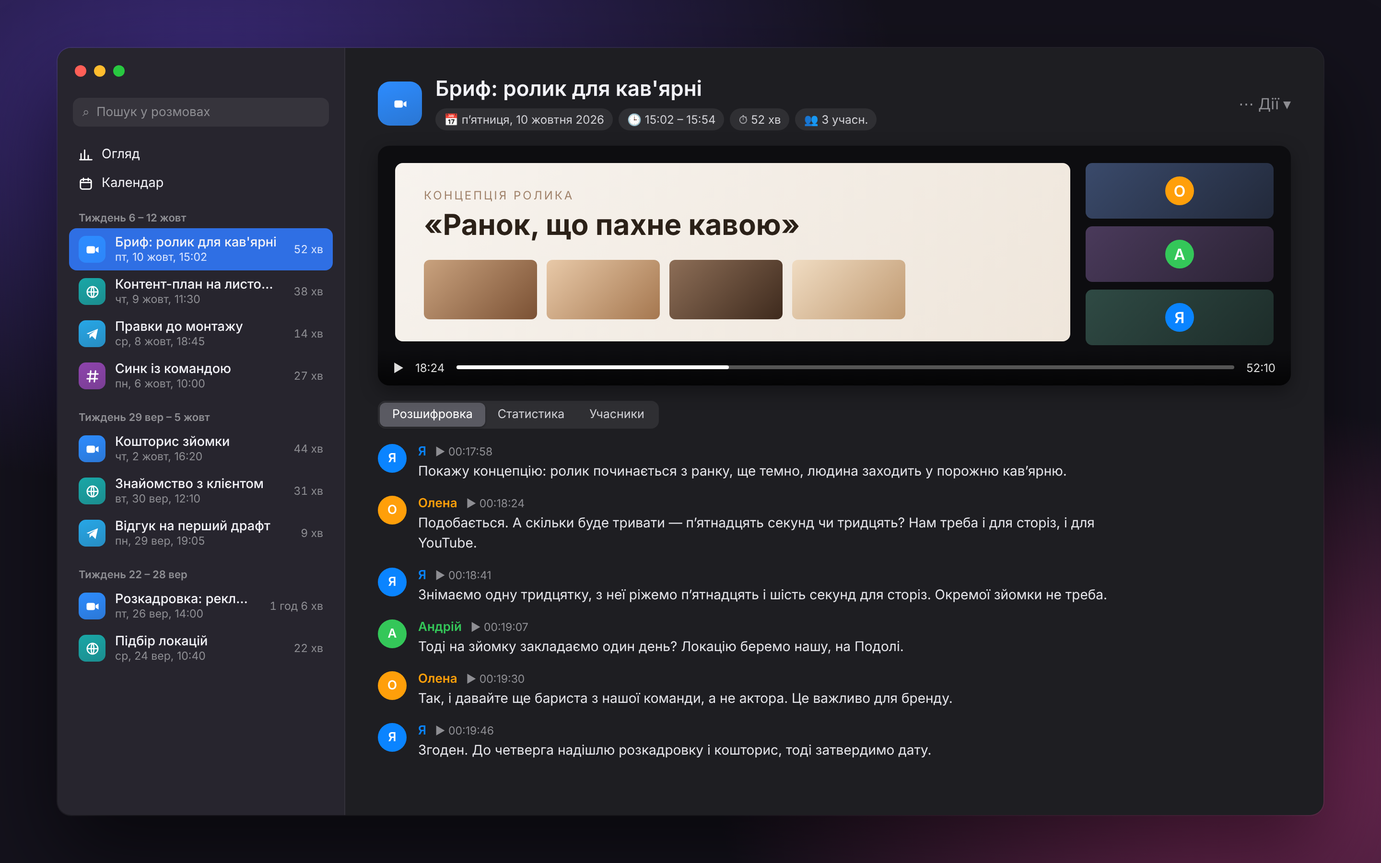
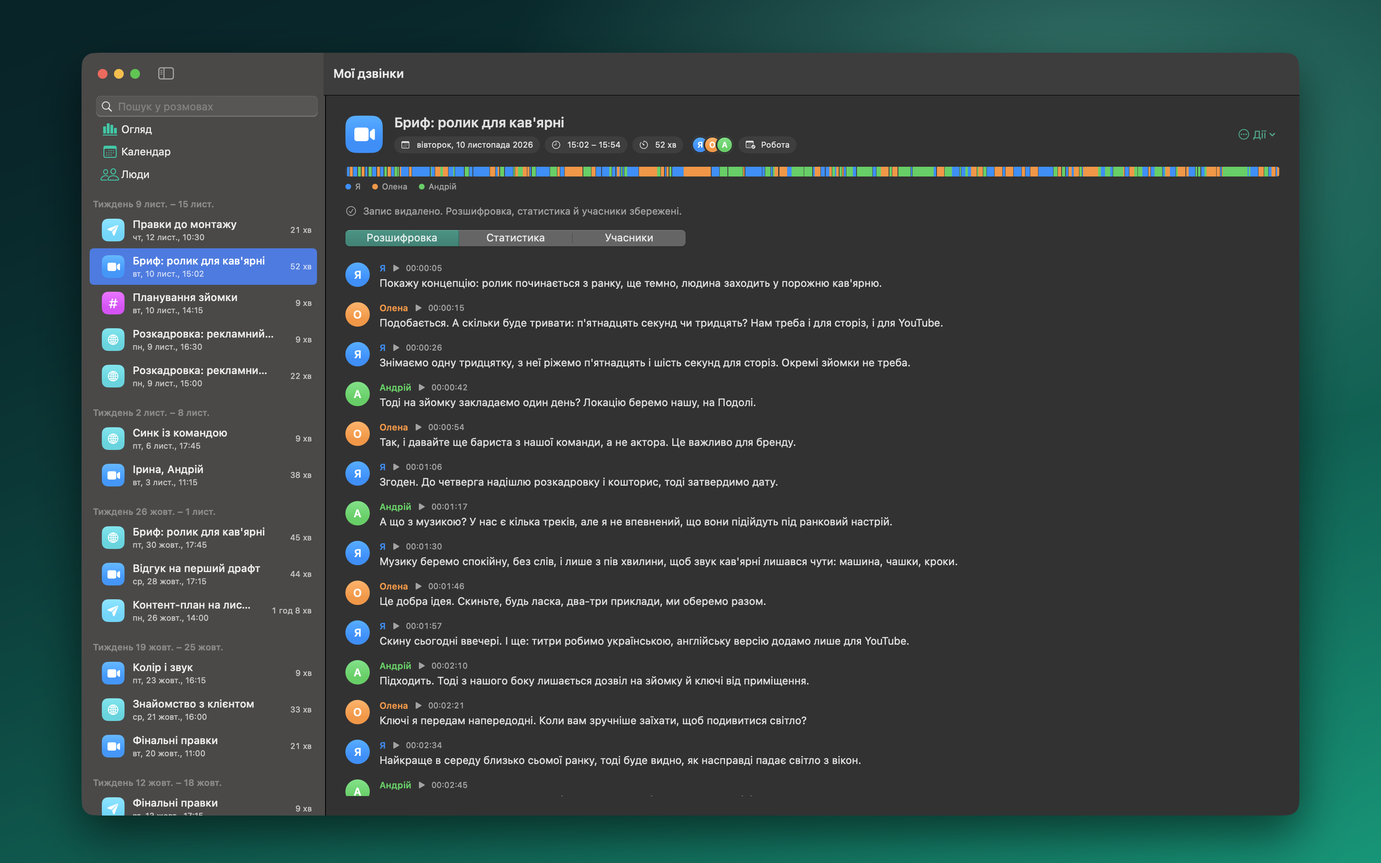
Rozmova 0.12.0: site, README, release notes, demo data folder
New screenshots from invented calls (ROZMOVA_HOME), teal palette and icon on the
site, text for the new voices, People page and delete-the-recording behaviour.
People page shows three voice samples with a Show all button.

diff --git a/docs/index.html b/docs/index.html
@@ -8,22 +8,22 @@
 <meta property="og:title" content="Rozmova — запис і розшифровка дзвінків на Маці">
 <meta property="og:description" content="Zoom, Meet, Telegram, Slack — будь-яка програма. Розшифровка на твоєму Маці, без підписки. Відкритий код.">
 <meta property="og:image" content="https://slavashootit.github.io/rozmova/img/overview.webp">
-<meta name="theme-color" content="#0d0b16">
+<meta name="theme-color" content="#0a1214">
 <link rel="icon" href="icon.png">
 <style>
   :root {
-    --bg: #f7f6fb; --surface: #ffffff; --text: #16141f; --muted: #605b75; --line: #e6e3ef;
-    --accent: #7c5cff; --accent2: #e0458f; --key: #f0eef7; --code: #15131f; --codetext: #ebe8f5;
+    --bg: #f4f8f7; --surface: #ffffff; --text: #12201f; --muted: #52676a; --line: #dce8e6;
+    --accent: #14a37d; --accent2: #0b7a86; --key: #e9f2f0; --code: #0e1a1c; --codetext: #e4f0ee;
   }
   @media (prefers-color-scheme: dark) {
     :root:not([data-theme="light"]) {
-      --bg: #0d0b16; --surface: #16141f; --text: #eeecf7; --muted: #9e98b6; --line: #272439;
-      --key: #1f1c2e; --code: #0b0a12; --codetext: #ebe8f5;
+      --bg: #0a1214; --surface: #111c1f; --text: #e8f1f0; --muted: #91a8a8; --line: #1f3033;
+      --key: #172529; --code: #081012; --codetext: #e4f0ee;
     }
   }
   :root[data-theme="dark"] {
-    --bg: #0d0b16; --surface: #16141f; --text: #eeecf7; --muted: #9e98b6; --line: #272439;
-    --key: #1f1c2e; --code: #0b0a12; --codetext: #ebe8f5;
+    --bg: #0a1214; --surface: #111c1f; --text: #e8f1f0; --muted: #91a8a8; --line: #1f3033;
+    --key: #172529; --code: #081012; --codetext: #e4f0ee;
   }
   * { box-sizing: border-box; }
   html { scroll-behavior: smooth; }
@@ -50,18 +50,18 @@
   .cta { display: flex; gap: 12px; justify-content: center; flex-wrap: wrap; }
   .btn { display: inline-flex; align-items: center; gap: 8px; padding: 13px 22px; border-radius: 12px; font-weight: 600; font-size: 16px; border: 1px solid var(--line); background: var(--surface); color: var(--text); }
   .btn:hover { text-decoration: none; border-color: var(--accent); }
-  .btn.primary { background: linear-gradient(135deg, var(--accent), var(--accent2)); color: #fff; border: none; box-shadow: 0 8px 26px rgba(124, 92, 255, .35); }
+  .btn.primary { background: linear-gradient(135deg, var(--accent), var(--accent2)); color: #fff; border: none; box-shadow: 0 8px 26px rgba(20, 163, 125, .35); }
   .note { color: var(--muted); font-size: 14px; margin-top: 14px; }
 
   .install { margin: 34px auto 0; max-width: 760px; text-align: left; }
   .code { display: flex; align-items: center; gap: 12px; background: var(--code); color: var(--codetext); border-radius: 12px; padding: 10px 10px 10px 18px; font: 14px/1.5 ui-monospace, "SF Mono", Menlo, monospace; }
   .code span { flex: 1; min-width: 0; overflow-x: auto; white-space: nowrap; padding: 6px 0; scrollbar-width: none; }
-  .code button { flex: none; border: 1px solid #3a3552; background: #211e33; color: #d3cfe6; border-radius: 8px; padding: 6px 12px; font: 13px -apple-system, system-ui, sans-serif; cursor: pointer; }
-  .code button:hover { background: #2b2742; }
+  .code button { flex: none; border: 1px solid #2e4549; background: #17292d; color: #cfe3e0; border-radius: 8px; padding: 6px 12px; font: 13px -apple-system, system-ui, sans-serif; cursor: pointer; }
+  .code button:hover { background: #20383d; }
   .cap { color: var(--muted); font-size: 13px; margin: 0 0 8px 2px; }
 
   /* ---------- hero illustration: a call and the "record?" prompt, drawn in CSS ---------- */
-  .stage { position: relative; aspect-ratio: 16 / 10; margin: 54px auto 0; max-width: 900px; border-radius: 18px; overflow: hidden; border: 1px solid var(--line); box-shadow: 0 30px 80px rgba(30, 16, 60, .35); background: radial-gradient(120% 90% at 0% 0%, #3b2685 0%, transparent 55%), radial-gradient(90% 80% at 100% 100%, #8a2a6b 0%, transparent 60%), #14111f; color: #fff; text-align: left; font-size: clamp(8px, 1.15vw, 12px); }
+  .stage { position: relative; aspect-ratio: 16 / 10; margin: 54px auto 0; max-width: 900px; border-radius: 18px; overflow: hidden; border: 1px solid var(--line); box-shadow: 0 30px 80px rgba(6, 30, 34, .4); background: radial-gradient(120% 90% at 0% 0%, #0f5a5c 0%, transparent 55%), radial-gradient(90% 80% at 100% 100%, #1b8f70 0%, transparent 60%), #0a1618; color: #fff; text-align: left; font-size: clamp(8px, 1.15vw, 12px); }
   .menubar { position: absolute; inset: 0 0 auto 0; height: 4.4%; min-height: 16px; background: rgba(10, 8, 20, .55); backdrop-filter: blur(8px); display: flex; align-items: center; gap: 14px; padding: 0 14px; }
   .menubar .sp { margin-left: auto; }
   .menubar .wave { display: inline-flex; align-items: center; gap: 2px; height: 1.2em; }
@@ -106,7 +106,7 @@
   .tabs button { font: 600 14px -apple-system, system-ui, sans-serif; padding: 9px 16px; border-radius: 99px; border: 1px solid var(--line); background: var(--surface); color: var(--muted); cursor: pointer; }
   .tabs button[aria-selected="true"] { color: #fff; border-color: transparent; background: linear-gradient(135deg, var(--accent), var(--accent2)); }
   .panel[hidden] { display: none; }
-  .panel img { display: block; width: 100%; height: auto; border-radius: 16px; border: 1px solid var(--line); box-shadow: 0 30px 80px rgba(30, 16, 60, .30); background: #14111f; }
+  .panel img { display: block; width: 100%; height: auto; border-radius: 16px; border: 1px solid var(--line); box-shadow: 0 30px 80px rgba(6, 30, 34, .34); background: #0c1719; }
   .caption { color: var(--muted); font-size: 15px; margin: 14px 0 0; max-width: 720px; }
   .fine { color: var(--muted); font-size: 12px; margin-top: 18px; opacity: .8; }
 
@@ -125,7 +125,7 @@
 
   .files { display: grid; grid-template-columns: repeat(auto-fit, minmax(320px, 1fr)); gap: 14px; }
   .term { background: var(--code); color: var(--codetext); border-radius: 14px; padding: 18px 20px; font: 13.5px/1.7 ui-monospace, "SF Mono", Menlo, monospace; overflow-x: auto; white-space: pre; }
-  .term .c { color: #8c86a6; }
+  .term .c { color: #82a09f; }
   .term .t { color: #9db4ff; }
   .term .y { color: #4ea2ff; } .term .o { color: #ffb340; } .term .g { color: #5be07f; }
   .files h3 { margin: 0 0 10px; font-size: 17px; }
@@ -170,7 +170,7 @@
 
 <header class="hero" id="top">
   <div class="wrap">
-    <span class="pill">Безкоштовно · відкритий код · macOS 14+ · v0.11.0</span>
+    <span class="pill">Безкоштовно · відкритий код · macOS 14+ · v0.12.0</span>
     <h1>Записує дзвінки <em>без бота й підписки</em></h1>
     <p class="lead">Rozmova сама помічає дзвінок у будь-якій програмі: Zoom, Google Meet у браузері, Telegram, Slack, FaceTime. Пише твій голос і співрозмовників, за бажанням екран, а потім розшифровує розмову прямо на твоєму Маці. Нічого не йде в хмару.</p>
     <div class="cta">
@@ -187,7 +187,7 @@
     <div class="stage" role="img" aria-label="Ілюстрація: іде відеодзвінок, а Rozmova у правому верхньому куті питає, чи записати його">
       <div class="menubar">
         <span style="font-size:1.3em"></span><b>Відеодзвінок</b><span class="m">Зустріч</span><span class="m">Вигляд</span><span class="m">Вікно</span>
-        <span class="sp wave" aria-hidden="true"><i style="height:35%"></i><i style="height:70%"></i><i style="height:100%"></i><i style="height:60%"></i><i style="height:30%"></i></span>
+        <span class="sp" aria-hidden="true" style="display:inline-flex"><svg viewBox="0 0 24 24" width="17" height="17"><mask id="mb"><rect width="24" height="24" fill="#fff"/><path d="M13 9h5a4 4 0 0 1 4 4v1a4 4 0 0 1-4 4h-.5l-3 3v-3H13a4 4 0 0 1-4-4v-1a4 4 0 0 1 4-4z" fill="#000" stroke="#000" stroke-width="2.6" stroke-linejoin="round"/></mask><path mask="url(#mb)" d="M7 3h4a4 4 0 0 1 4 4v2a4 4 0 0 1-4 4h-1l-3 3v-3a4 4 0 0 1-4-4V7a4 4 0 0 1 4-4z" fill="none" stroke="#fff" stroke-width="1.7" stroke-linejoin="round"/><path d="M13 9h5a4 4 0 0 1 4 4v1a4 4 0 0 1-4 4h-.5l-3 3v-3H13a4 4 0 0 1-4-4v-1a4 4 0 0 1 4-4z" fill="#fff"/></svg></span>
         <span>Нд 11 жовт. 15:02</span>
       </div>
       <div class="call">
@@ -219,12 +219,13 @@
       <div class="card"><div class="ic">🔔</div><h3>Сама помічає дзвінок</h3><p>Щойно програма бере мікрофон для розмови, справа зверху виїжджає віконце «Записати?». Фокус у дзвінка не забирає. А ⌃⌥R починає чи зупиняє запис із будь-якої програми.</p></div>
       <div class="card"><div class="ic">🌐</div><h3>Будь-яка програма</h3><p>Zoom, Meet і Teams у браузері, Telegram, Slack, FaceTime, WhatsApp, Discord. Бот у дзвінок не заходить, ніхто нічого не помітить.</p></div>
       <div class="card"><div class="ic">🎧</div><h3>Обидві сторони окремо</h3><p>Твій мікрофон і звук системи пишуться на різні доріжки. У розшифровці точно видно, де говориш ти.</p></div>
-      <div class="card"><div class="ic">🗣</div><h3>Розрізняє голоси</h3><p>Інших учасників ділить за голосом: «Співрозмовник 1», «Співрозмовник 2». Назвеш людину раз — у наступних дзвінках Rozmova впізнає її голос сама.</p></div>
+      <div class="card"><div class="ic">🗣</div><h3>Впізнає людей за голосом</h3><p>Назвеш співрозмовника, і Rozmova запам'ятає його голос із кількох дзвінків. У наступному підпише сама, але лише коли певна. Якщо голос тільки схожий, запропонує ім'я, а незнайомого лишить без імені.</p></div>
+      <div class="card"><div class="ic">👥</div><h3>Сторінка «Люди»</h3><p>Видно, які записи навчили програму голосу кожної людини. Можна перейменувати, з'єднати двох в одну, прибрати помилковий запис і відкрити всі розмови з нею.</p></div>
       <div class="card"><div class="ic">🧠</div><h3>Розшифровка на Маці</h3><p>NVIDIA Parakeet на Neural Engine: 25 європейських мов, зокрема українська. Безкоштовно й без інтернету. Хочеш хмару — є Groq.</p></div>
       <div class="card"><div class="ic">🖥</div><h3>Запис екрана</h3><p>30 кадрів/с зі звуком розмови. Головний дисплей, інший монітор або лише вікно Zoom чи Meet — тоді демонстрацію співрозмовника видно завжди.</p></div>
-      <div class="card"><div class="ic">🗂</div><h3>«Мої дзвінки»</h3><p>Усі розмови в одному вікні: пошук по тексту всіх дзвінків відкриває потрібну репліку, плеєр вмикає запис із будь-якого місця.</p></div>
-      <div class="card"><div class="ic">📊</div><h3>Статистика без нейронок</h3><p>Хто скільки говорив, твій темп, запитання, перебивання, паузи, слова-паразити. Огляд за тиждень, місяць, рік.</p></div>
-      <div class="card"><div class="ic">🧹</div><h3>Прибирає за собою</h3><p>Технічні файли видаляються самі через 2 тижні. Відео, аудіо й розшифровки лишаються назавжди.</p></div>
+      <div class="card"><div class="ic">🗂</div><h3>«Мої дзвінки»</h3><p>Усі розмови в одному вікні. Дзвінок названо за подією з календаря або за людьми, що були на ньому. Пошук по тексту відкриває потрібну репліку, а розшифровку можна скопіювати одним кліком, з іменами й таймкодами.</p></div>
+      <div class="card"><div class="ic">📊</div><h3>Статистика без нейронок</h3><p>Хто скільки говорив, твій темп, запитання, перебивання, паузи, слова-паразити. Огляд за тиждень, місяць, рік або за весь час. Під кожним дзвінком смужка, хто й коли говорив.</p></div>
+      <div class="card"><div class="ic">🧹</div><h3>Видалив запис, статистика лишилась</h3><p>Відео й аудіо займають місце, а розшифровка з цифрами майже нічого. Прибери запис у меню «Дії», і розшифровка, статистика й учасники лишаться назавжди та й далі рахуються в огляді. Окремі доріжки програма чистить сама через 2 тижні.</p></div>
       <div class="card"><div class="ic">🔒</div><h3>Приватність</h3><p>Ні акаунтів, ні аналітики, ні хмари. Записи лежать у теці на твоєму Маці й нікуди не відправляються.</p></div>
       <div class="card"><div class="ic">♾</div><h3>Без лімітів</h3><p>Скільки завгодно дзвінків будь-якої довжини. Ні лічильника хвилин, ні платного плану.</p></div>
       <div class="card"><div class="ic">📅</div><h3>Календар дзвінків</h3><p>Місяць дзвінків по днях, поруч зустрічі з Календаря macOS. Дзвінок отримує назву події, а за хвилину до онлайн-зустрічі приходить нагадування.</p></div>
@@ -240,7 +241,7 @@
       <div class="card"><h3>Помічає</h3><p>Раз на 2 секунди дивиться, яка програма тримає мікрофон. Програми для диктування (Superwhisper, Wispr Flow) дзвінком не вважаються.</p></div>
       <div class="card"><h3>Пише</h3><p>Мікрофон і звук системи на одній шкалі часу, плюс екран, якщо ввімкнено. Дзвінок закінчився — запис зупиняється сам.</p></div>
       <div class="card"><h3>Розшифровує</h3><p>За кілька хвилин приходить сповіщення «Розшифровка готова»: текст із часом і тим, хто говорить.</p></div>
-      <div class="card"><h3>Рахує</h3><p>Статистика рахується з таймкодів слів, без мовних моделей. Усе одразу видно в «Моїх дзвінках».</p></div>
+      <div class="card"><h3>Рахує</h3><p>Статистика рахується з таймкодів слів, без мовних моделей. Усе одразу видно в «Моїх дзвінках». Поки йде розшифровка, угорі списку крутиться індикатор.</p></div>
     </div>
   </div>
 </section>
@@ -252,16 +253,21 @@
     <div class="tabs" role="tablist">
       <button role="tab" aria-selected="true" data-p="p1">Огляд</button>
       <button role="tab" aria-selected="false" data-p="p2">Дзвінок</button>
+      <button role="tab" aria-selected="false" data-p="p5">Люди</button>
       <button role="tab" aria-selected="false" data-p="p3">Статистика</button>
       <button role="tab" aria-selected="false" data-p="p4">Календар</button>
     </div>
     <div class="panel" id="p1" role="tabpanel">
-      <img src="img/overview.webp" width="1800" height="1125" alt="Огляд за місяць: кількість дзвінків, години, твоя частка розмови, темп, графіки активності, програм і днів тижня, люди" loading="lazy">
-      <p class="caption">Огляд за тиждень, місяць чи рік: скільки часу в дзвінках, у яких програмах, як змінюється твій темп і з ким говориш найчастіше.</p>
+      <img src="img/overview.webp" width="1800" height="1125" alt="Огляд за весь час: години в розмовах, активність, твоя частка розмови, темп, люди, програми й дні тижня, люди" loading="lazy">
+      <p class="caption">Одне велике число — години в розмовах, поруч активність. Нижче людей, з якими говориш найчастіше, програми й дні тижня. Видалені записи на цифри не впливають.</p>
     </div>
     <div class="panel" id="p2" role="tabpanel" hidden>
       <img src="img/call.webp" width="1800" height="1125" alt="Сторінка дзвінка: плеєр із записом екрана й розшифровка з часом і іменами" loading="lazy">
-      <p class="caption">Відео екрана зі звуком і розшифровка поруч. Клік на час репліки вмикає запис саме з цього місця.</p>
+      <p class="caption">Учасники аватарками в шапці, під нею смужка, хто й коли говорив, а нижче розшифровка. Клік на час репліки вмикає запис із цього місця, поки запис є.</p>
+    </div>
+    <div class="panel" id="p5" role="tabpanel" hidden>
+      <img src="img/people.webp" width="1800" height="1125" alt="Сторінка «Люди»: кожна людина з записами голосу, з яких Rozmova її впізнає, і списком розмов" loading="lazy">
+      <p class="caption">Кожна людина, яку ти назвав, із записами голосу з різних дзвінків. Помилковий запис можна прибрати, двох людей з'єднати в одну, а розмови з нею відкрити звідси.</p>
     </div>
     <div class="panel" id="p3" role="tabpanel" hidden>
       <img src="img/stats.webp" width="1800" height="1125" alt="Статистика дзвінка: частка розмови кожного, темп, запитання, перебивання, паузи, слова-паразити, графік темпу" loading="lazy">
@@ -271,7 +277,7 @@
       <img src="img/calendar.webp" width="1800" height="1125" alt="Календар: місяць із дзвінками по днях, зустрічі з Календаря macOS і розклад вибраного дня" loading="lazy">
       <p class="caption">Дзвінки по днях, а поруч зустрічі з Календаря macOS: видно, що записано, а що ні. Клік на день показує його розклад, клік на дзвінок відкриває його.</p>
     </div>
-    <p class="fine">Зображення — макети інтерфейсу з вигаданими даними; у програмі деталі можуть відрізнятись.</p>
+    <p class="fine">Знімки зроблено з вигаданими дзвінками й людьми; у програмі деталі можуть відрізнятись.</p>
   </div>
 </section>
 
@@ -328,7 +334,7 @@
       <li><b>Завантаж і перетягни в «Програми»</b><span>Відкрий <code>Rozmova.dmg</code> і перетягни Rozmova на папку Applications. Або встанови одним рядком у Терміналі, команда вгорі сторінки.</span></li>
       <li><b>Перший запуск</b><span>Програма не нотаризована Apple, тож macOS спершу її заблокує. Системні параметри → Приватність і безпека → «Усе одно відкрити». Або одним рядком: <code>xattr -dr com.apple.quarantine /Applications/Rozmova.app</code></span></li>
       <li><b>Дозволи</b><span>Мікрофон — щоб писати твій голос. Запис екрана й системного звуку — щоб писати співрозмовників (macOS спитає на першому записі, потім перезапусти програму). Сповіщення — щоб бачити «Розшифровка готова». За бажанням Календар — щоб дзвінки отримували назви зустрічей.</span></li>
-      <li><b>Користуйся</b><span>Іконка з хвилькою з'явиться в рядку меню. Почни будь-який дзвінок, і Rozmova спитає, чи записувати. Перша розшифровка один раз скачає модель, приблизно 0,6 ГБ.</span></li>
+      <li><b>Користуйся</b><span>Іконка з двома бульбашками з'явиться в рядку меню. Почни будь-який дзвінок, і Rozmova спитає, чи записувати. Перша розшифровка один раз скачає модель, приблизно 0,6 ГБ.</span></li>
     </ol>
   </div>
 </section>
@@ -342,7 +348,8 @@
     <details><summary>Не пишеться звук співрозмовника</summary><p>Потрібен дозвіл «Запис екрана й системного звуку»: Системні параметри → Приватність і безпека → увімкни Rozmova й перезапусти програму.</p></details>
     <details><summary>Віконце з'являється, коли я диктую текст</summary><p>Популярні програми для диктування Rozmova пропускає сама. Для решти натисни у віконці «Це не дзвінок», і ця програма більше не потурбує.</p></details>
     <details><summary>Чи записує, коли в дзвінку ввімкнений mute?</summary><p>Так: Rozmova пише мікрофон напряму, тож у розшифровку може потрапити те, чого співрозмовники не чули. Пам'ятай про це.</p></details>
-    <details><summary>Наскільки точно розрізняються співрозмовники?</summary><p>«Я» — завжди точно, бо це окрема доріжка. Інших програма ділить за голосом, і це здогадка: схожі голоси можуть злитися в один. Найчистіше виходить у навушниках.</p></details>
+    <details><summary>Наскільки точно розрізняються співрозмовники?</summary><p>«Я» — окрема доріжка, тож точно, якщо ти в навушниках. Інших програма ділить за голосом, і це здогадка: схожі голоси можуть злитися в один. Ім'я Rozmova ставить сама лише коли певна, коли голос тільки схожий — пропонує його кнопкою, а незнайомого лишає без імені. Помилку видно й можна виправити на сторінці «Люди».</p></details>
+    <details><summary>Що буде з дзвінком, якщо видалити відео й аудіо?</summary><p>Нічого страшного: у меню «Дії» → «Видалити запис» файли потрапляють у Смітник, а розшифровка, статистика й учасники лишаються. Дзвінок і далі в списку та в огляді. Лише «Видалити дзвінок повністю» прибирає все. Але без запису вже не можна розшифрувати його знову.</p></details>
     <details><summary>А це взагалі законно — записувати дзвінки?</summary><p>Залежить від країни, але правило просте: попереджай людей, що дзвінок записується.</p></details>
     <details><summary>Як оновлюватися?</summary><p>Rozmova раз на добу перевіряє GitHub і повідомить про нову версію: пункт у меню й сповіщення ведуть на сторінку завантаження. Або просто ще раз виконай команду встановлення з початку сторінки.</p></details>
     <details><summary>Як зібрати самому?</summary><p>Потрібні Command Line Tools зі Swift 6 (<code>xcode-select --install</code>). Далі <code>git clone https://github.com/slavashootit/rozmova.git &amp;&amp; cd rozmova &amp;&amp; ./build.sh</code>.</p></details>

diff --git a/Sources/Rozmova/CalendarEvents.swift b/Sources/Rozmova/CalendarEvents.swift
@@ -45,7 +45,7 @@ final class CalendarEvents: ObservableObject {
         revision += 1
     }
 
-    var hasAccess: Bool { EKEventStore.authorizationStatus(for: .event) == .fullAccess }
+    var hasAccess: Bool { Prefs.isDemo || EKEventStore.authorizationStatus(for: .event) == .fullAccess }
 
     /// Asked once; after "Don't Allow" only System Settings can change it.
     var canAsk: Bool { EKEventStore.authorizationStatus(for: .event) == .notDetermined }
@@ -70,6 +70,9 @@ final class CalendarEvents: ObservableObject {
     /// Timed events that overlap the interval. All-day events (birthdays, holidays) are left out.
     func events(from start: Date, to end: Date) -> [CalEvent] {
         guard hasAccess, start < end else { return [] }
+        if Prefs.isDemo {
+            return Self.demoEvents().filter { $0.end > start && $0.start < end }
+        }
         let predicate = store.predicateForEvents(withStart: start, end: end, calendars: nil)
         return store.events(matching: predicate)
             .filter { !$0.isAllDay }
@@ -87,6 +90,29 @@ final class CalendarEvents: ObservableObject {
                 )
             }
             .sorted { $0.start < $1.start }
+    }
+
+    private struct DemoEvent: Decodable {
+        let title: String
+        let start: Date
+        let end: Date
+        let calendar: String
+        let online: Bool
+    }
+
+    /// Meetings from demo-events.json in the demo folder (see Prefs.demoHome).
+    private static func demoEvents() -> [CalEvent] {
+        let url = Prefs.appFolder.appendingPathComponent("demo-events.json")
+        let decoder = JSONDecoder()
+        decoder.dateDecodingStrategy = .iso8601
+        guard let data = try? Data(contentsOf: url), let list = try? decoder.decode([DemoEvent].self, from: data) else { return [] }
+        return list.map { event in
+            CalEvent(id: "\(event.title)@\(event.start.timeIntervalSince1970)", title: event.title, start: event.start,
+                     end: event.end, calendar: event.calendar, color: event.online ? .systemTeal : .systemOrange,
+                     onlineLink: event.online ? URL(string: "https://meet.google.com/demo") : nil,
+                     hasAttendees: event.online)
+        }
+        .sorted { $0.start < $1.start }
     }
 
     /// First names of the invited people; an address without a name is skipped.

diff --git a/Sources/Rozmova/Cabinet.swift b/Sources/Rozmova/Cabinet.swift
@@ -910,8 +910,16 @@ private struct PeoplePage: View {
                 }
                 ForEach(others, id: \.name) { person in
                     Card(person.name, subtitle: "\(person.samples.count) зап. голосу") {
-                        ForEach(person.samples.sorted { $0.call > $1.call }, id: \.key) { sample in
+                        let samples = person.samples.sorted { $0.call > $1.call }
+                        let open = library.openSamples.contains(person.name)
+                        ForEach(open ? samples : Array(samples.prefix(3)), id: \.key) { sample in
                             sampleRow(sample)
+                        }
+                        if samples.count > 3 {
+                            Button(open ? "Згорнути" : "Показати всі \(samples.count)") {
+                                if open { library.openSamples.remove(person.name) } else { library.openSamples.insert(person.name) }
+                            }
+                            .buttonStyle(.link)
                         }
                         let together = library.calls(with: person.name)
                         if !together.isEmpty {

diff --git a/Sources/Rozmova/Library.swift b/Sources/Rozmova/Library.swift
@@ -114,6 +114,8 @@ final class CallLibrary: ObservableObject {
     /// How many calls are running through transcription now (set by the app).
     @Published var processing = 0
     @Published var showShort = false
+    /// People whose full list of voice samples is open on the "Люди" page.
+    @Published var openSamples: Set<String> = []
 
     var shortCalls: [CallRecord] { calls.filter(\.isShort) }
 
@@ -139,7 +141,7 @@ final class CallLibrary: ObservableObject {
     /// One Calendar query per month, not per call.
     private func linkEvents() {
         let calendar = CalendarEvents.shared
-        guard calendar.hasAccess else { return }
+        guard calendar.hasAccess, !Prefs.isDemo else { return }
         let unlinked = calls.indices.filter { calls[$0].meta.event == nil }
         let months = Dictionary(grouping: unlinked) { index in
             Calendar.current.dateInterval(of: .month, for: calls[index].meta.started)?.start ?? .distantPast

diff --git a/Sources/Rozmova/Prefs.swift b/Sources/Rozmova/Prefs.swift
@@ -82,7 +82,17 @@ enum Prefs {
         set { defaults.set(newValue?.path, forKey: "lastRecording") }
     }
 
+    /// For development and the screenshots on the site: `ROZMOVA_HOME=/some/folder` makes the app
+    /// read and write everything there (History, Raw, People) instead of your real data, and
+    /// show the meetings from demo-events.json instead of the macOS Calendar.
+    static var demoHome: URL? {
+        ProcessInfo.processInfo.environment["ROZMOVA_HOME"].map { URL(fileURLWithPath: $0, isDirectory: true) }
+    }
+
+    static var isDemo: Bool { demoHome != nil }
+
     static var appFolder: URL {
+        if let demoHome { return demoHome }
         let support = FileManager.default.urls(for: .applicationSupportDirectory, in: .userDomainMask)[0]
         return support.appendingPathComponent("Rozmova", isDirectory: true)
     }

diff --git a/.github/release-notes.md b/.github/release-notes.md
@@ -1,11 +1,12 @@
-## Що нового в 0.11.0
+## Що нового в 0.12.0
 
-- **Голоси між дзвінками.** Назвеш співрозмовника раз — у наступних дзвінках Rozmova впізнає його голос і підпише сама (позначка «впізнано за голосом»).
-- **Гаряча клавіша ⌃⌥R** — почати чи зупинити запис із будь-якої програми.
-- **Пошук відкриває дзвінок на знайденій репліці**: збіги підсвічені, плеєр стає на цей момент.
-- **Онлайн-зустрічі** в календарі (подія з посиланням на Zoom, Meet, Teams, FaceTime): значок камери, кнопка «Приєднатися» й нагадування за хвилину до початку.
-- **Що знімати**: головний дисплей, інший монітор або вікно програми дзвінка.
-- **Перевірка оновлень**: раз на добу, з пунктом у меню й сповіщенням.
+- **Видалив запис, а статистика лишилась.** У меню «Дії» є «Видалити запис (відео й аудіо)»: файли йдуть у Смітник, а розшифровка, статистика й учасники лишаються назавжди й далі рахуються в огляді. «Огляд» тепер сам відкривається на «Увесь час» і запам'ятовує обраний період. Раніше він щоразу показував лише останній місяць, тож старі дзвінки здавалися втраченими.
+- **Голоси й імена більше не плутаються.** Rozmova запам'ятовує голос кожної названої людини з кількох дзвінків. Ім'я ставить сама лише коли певна, коли голос тільки схожий — пропонує його кнопкою, а незнайомого лишає без імені. Одне ім'я не лягає на двох людей в одній розмові, розбитого на два голоси співрозмовника можна об'єднати, а «Розшифрувати заново» більше не міняє імена місцями.
+- **Сторінка «Люди»:** з яких записів програма знає голос людини, перейменування, об'єднання двох у одну, прибрати помилковий запис, усі розмови людини.
+- **Твій голос і гості поруч.** Якщо поруч із тобою сидять люди й говорять у той самий мікрофон, вони стають окремими співрозмовниками, а не «Я» (потрібен зразок твого голосу з дзвінка в навушниках). Кнопка ▶ біля голосу грає кілька секунд, імена можна обрати серед запрошених на зустріч.
+- **Нова іконка й знак у рядку меню:** дві репліки замість хвилі. У рядку меню три стани: спокій, запис (червоний, з таймером) і розшифровка.
+- **Оновлений вигляд.** «Огляд» із головним числом, людьми вище за графіки й плавною появою (зникає, якщо в macOS увімкнено «Зменшити рух»). Дзвінки названо за подією або людьми замість `Meet: "xxx-yyyy-zzz"`, записи коротші за хвилину згорнуто й не рахуються в цифри, під шапкою дзвінка смужка «хто й коли говорив», угорі списку індикатор розшифровки.
+- **«Скопіювати розшифровку»** в меню «Дії»: текст з іменами й таймкодами, готовий вставити в чат-бот.
 
 ## Встановлення
 
